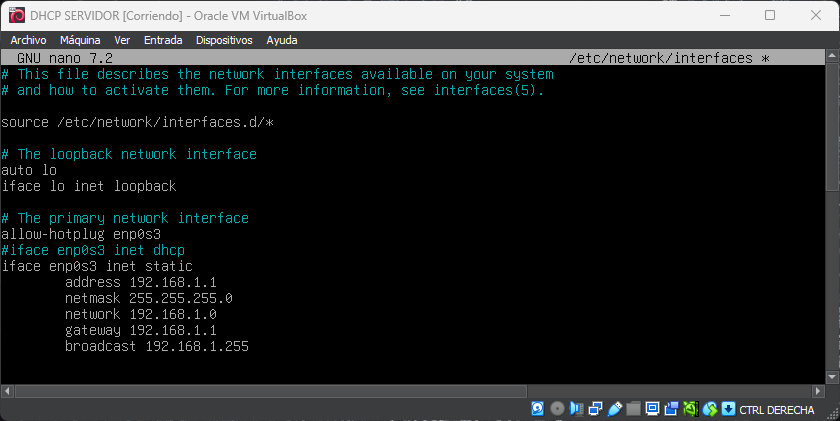
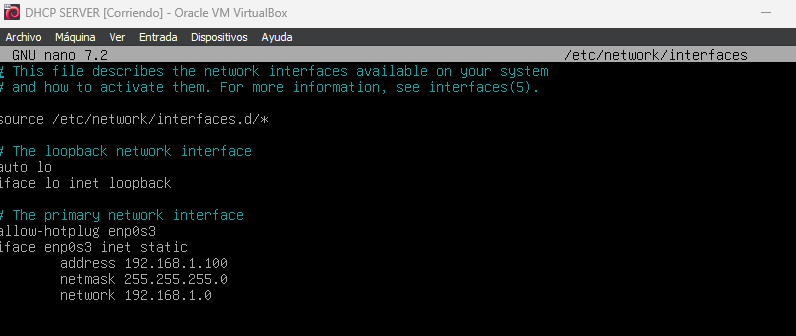
Update README.md with modified DHCP client configuration details and example output

Changed region(s): [[0.0, 0.0, 1.0, 1.0], [0.2412, 0.4464, 0.3015, 0.4762], [0.9045, 0.0, 0.9347, 0.0298]]

diff --git a/README.md b/README.md
@@ -49,9 +49,9 @@ Ahora cambiamos el adaptador de red a red interna y configuramos el archivo `/et
 `ip a` para ver nuestras interfaces de red
 ![ipa](image-4.png)
 
-![stato](image-5.png)
+![alt text](image-19.png)
 
-En mi caso , voy a asignarle a mi servidor la ip 192.168.1.1
+En mi caso , voy a asignarle a mi servidor la ip 192.168.1.100
 Aplicamos los cambios(ctrl O + ctrl X) y reiniciamos el servicio
 ```bash
 systemctl restart networking.service
@@ -66,12 +66,10 @@ ip r #para comprobar la tabla de rutas
 
 - `/etc/dhcp/dhcpd.conf` : aqui añadiremos en el apartado para una red interna, la red, la mascara y el rango que va a proporcionar de ips.
 
-![range](image-7.png)
+![range](image-19.png)
 ---
-En mi caso , subnet 192.168.1.0 netmask 255.255.255.0 { range 192.168.1.10 192.168.1.50;
-option routers 192.168.1.1;
-}
-
+En mi caso , subnet 192.168.1.0 netmask 255.255.255.0 
+range 192.168.1.10 192.168.1.50;
 **_NOTA_**: es opcional pero se recomienda añadir el option routers, nos servirá posteriormente para el relay.
 
 Por último, reiniciamos el servicio y comprobamos que no haya errores y ya quedaria levantado el servidor primario.
@@ -147,7 +145,7 @@ Configuramos el archivo `/etc/network/interfaces` para asignarle una ip a la int
 ```bash
 nano /etc/network/interfaces
 ```
-![asignment](image-16.png)
+![alt text](image-16.png)
 
 guardamos los cambios y reiniciamos el servicio de red
 ```bash
@@ -169,6 +167,29 @@ nano /etc/sysctl.conf
 ![descomentar](image-17.png)
 
 descomentar la linea `net.ipv4.ip_forward=1`
+---
+por ultimo en este apartado vamos a añadir la interfaz
+enp0s8 en el archivo `/etc/default/isc-dhcp-relay` para que escuche las peticiones dhcp.
+
+```bash	
+nano /etc/default/isc-dhcp-relay
+```
+![enpose8](image-19.png)
 
 ### 5.4 Configuración de las rutas estáticas
 
+vamos añadir las rutas para que las redes se puedan comunicar entre si.
+
+por un lado en el servidor dhcp primario añadimos la ruta para que la red1 pueda comunicarse con la red2.
+```bash
+ip route add 192.168.2.0/24 via 192.168.1.101
+```
+![ipr1](image-20.png)
+
+por otro lado en el cliente añadimos la ruta para que la red2 pueda comunicarse con la red1.
+```bash
+ip route add 192.168.1.0/24 via 192.168.2.100
+```
+![ipr2](image-21.png)
+
+### 5.5 Reiniciar el servicio del relay
